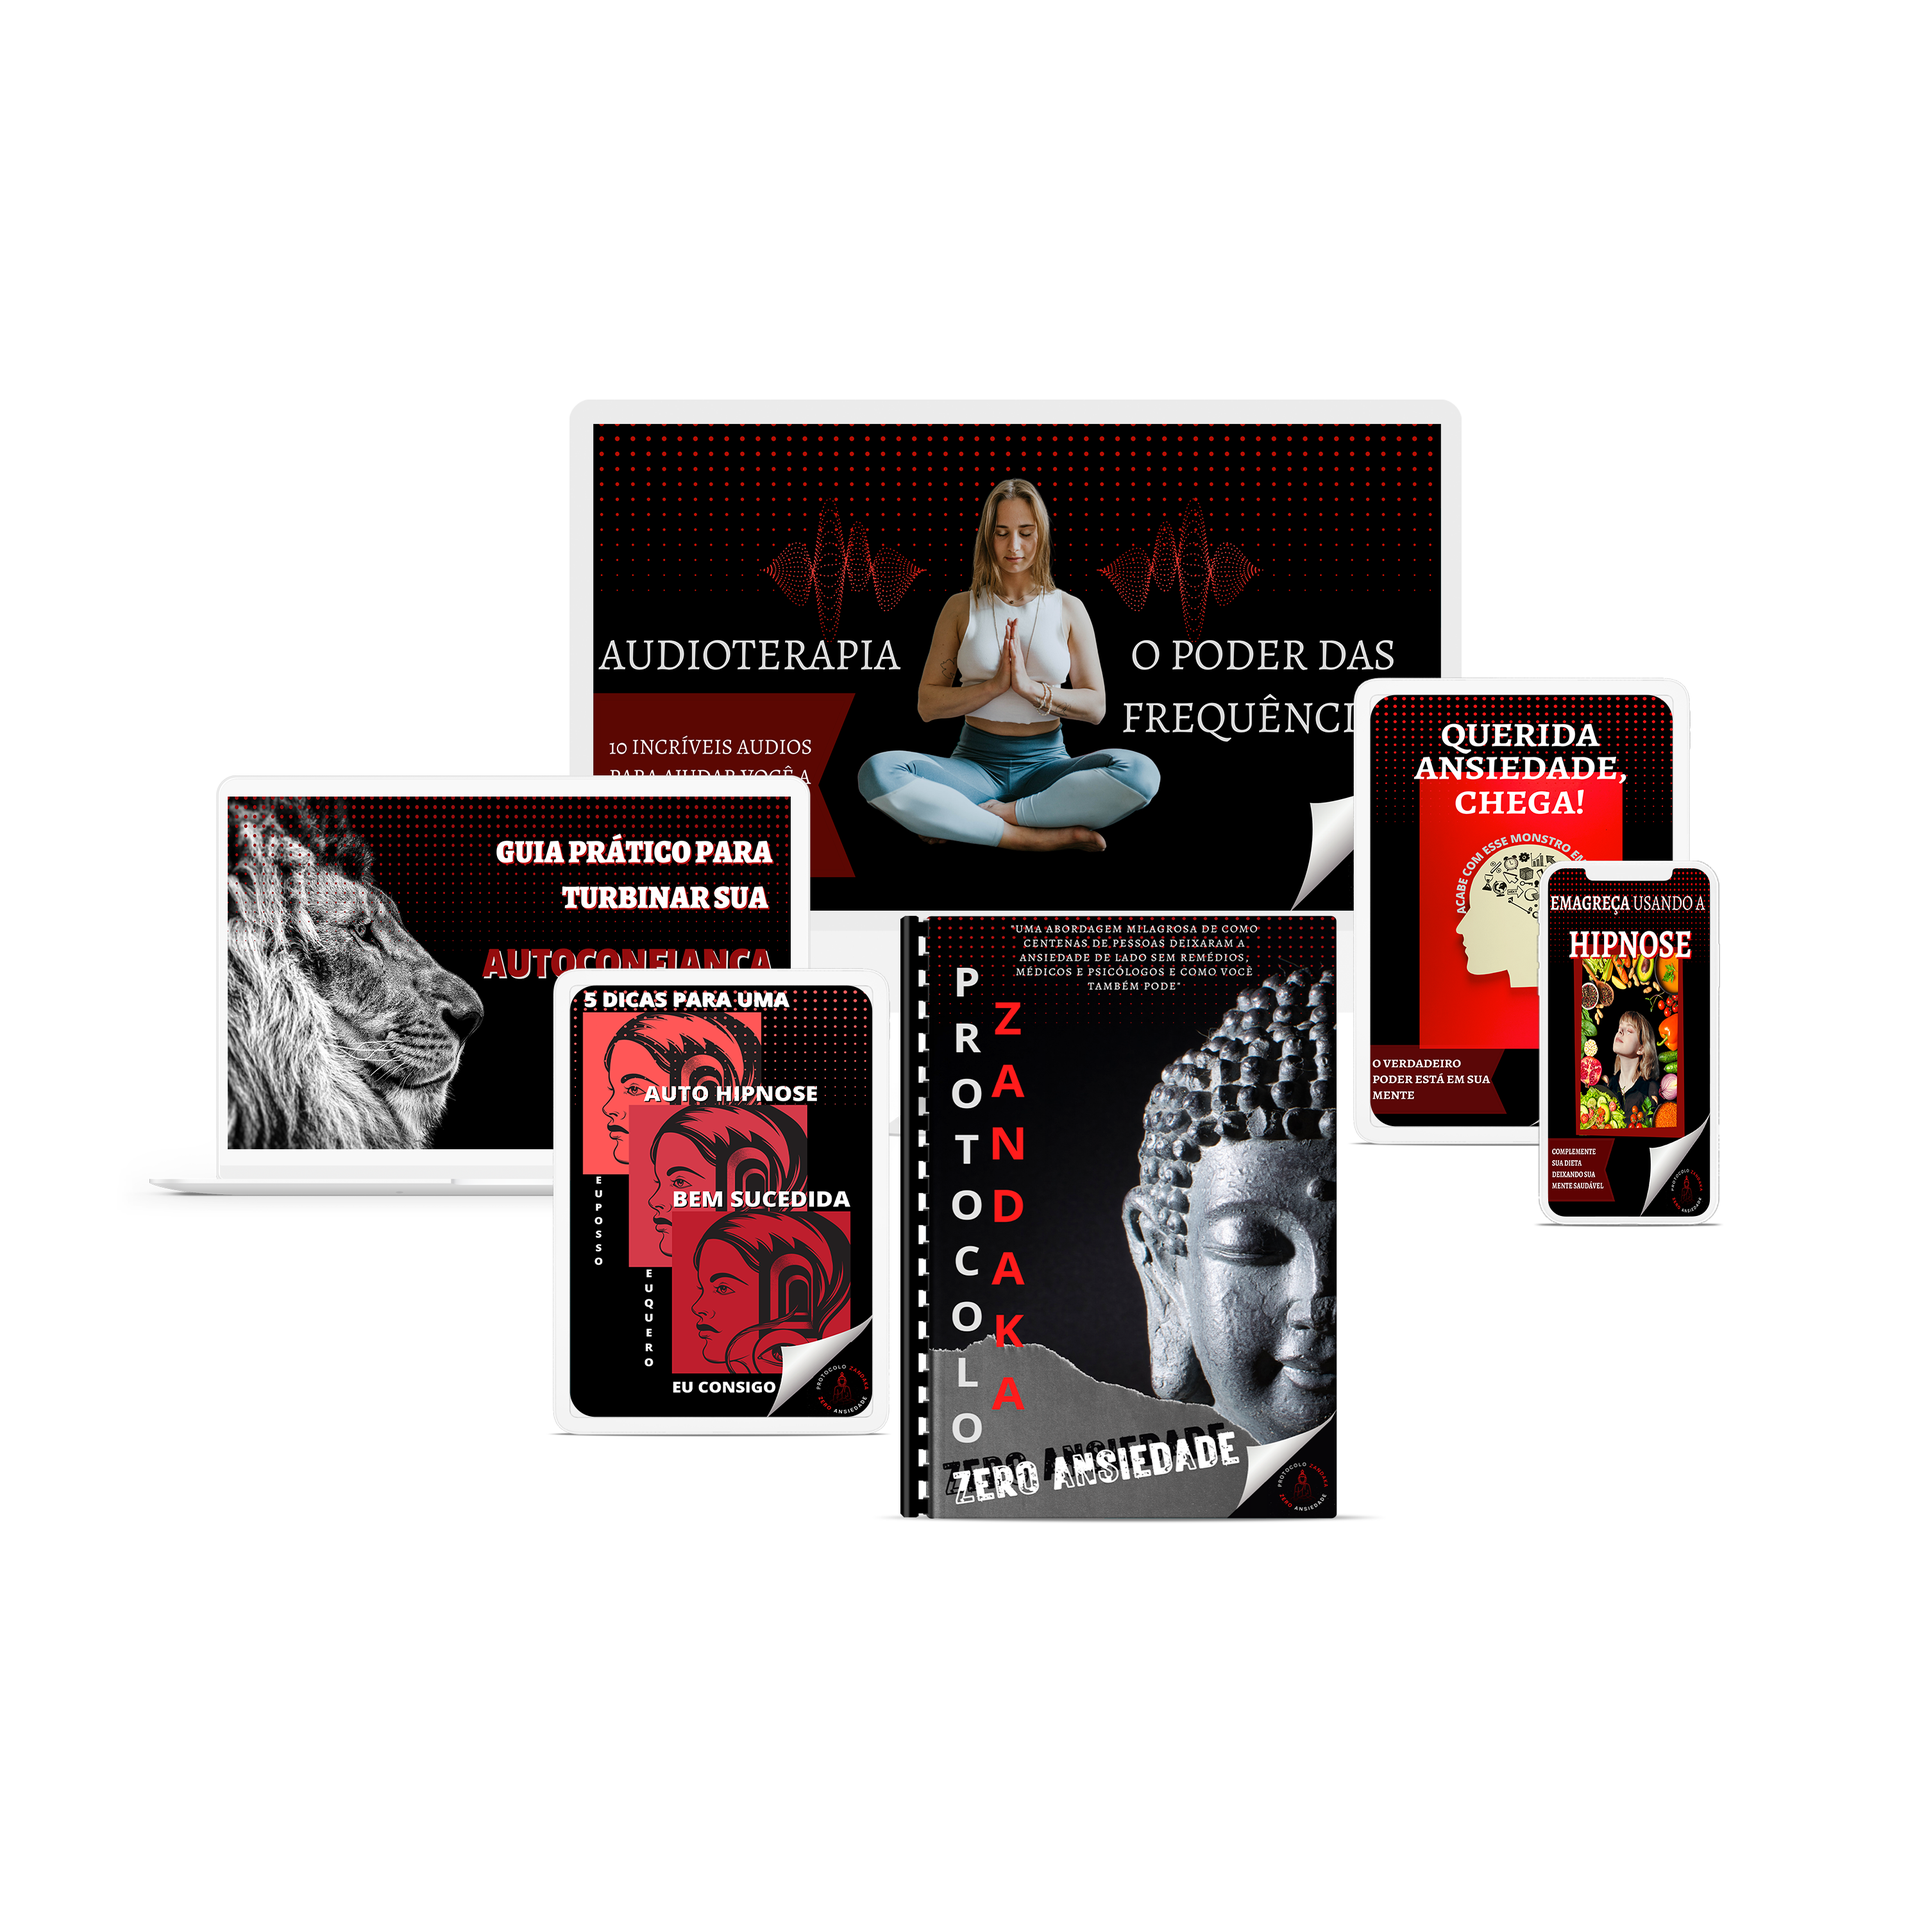
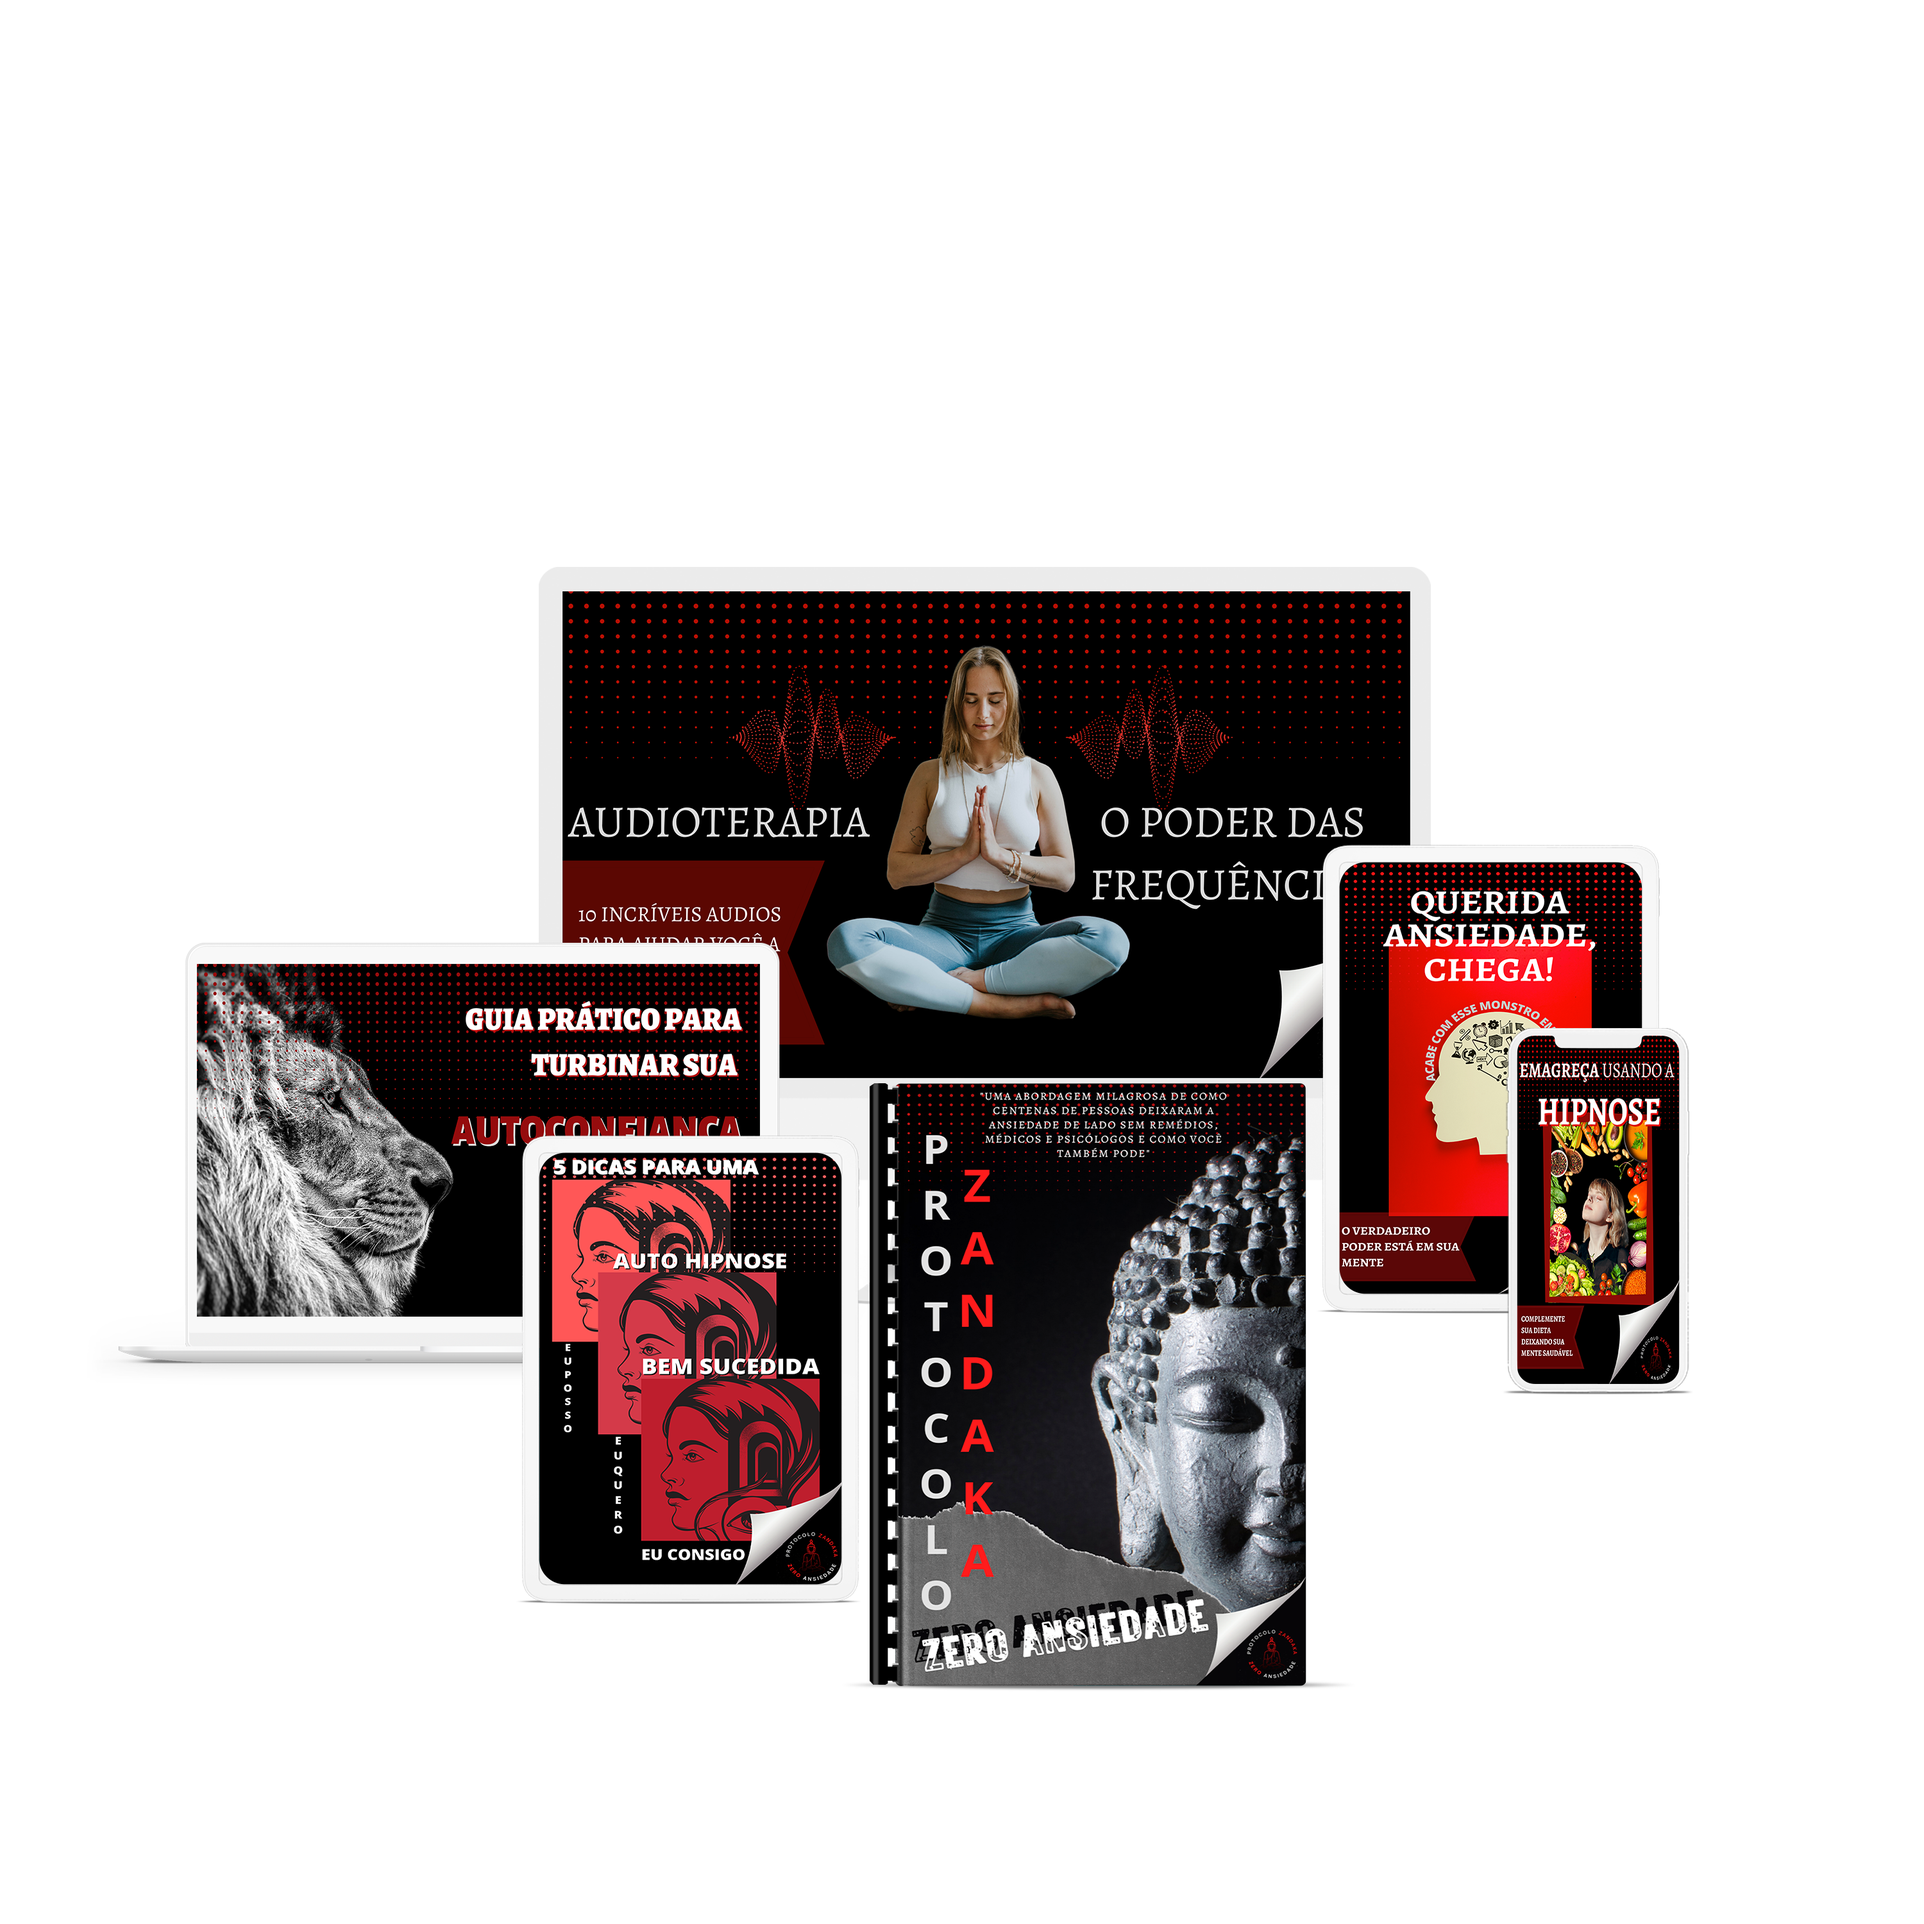
Add files via upload

Changed region(s): [[0.062, 0.217, 0.899, 0.899]]

diff --git a/ps/style.css b/ps/style.css
@@ -59,13 +59,6 @@ body {
 	color: white;
 }
 
-body {
-	font-family: sans-serif;
-	background-image: url(imagens/bg2.png);
-	width: 100px
-}
-
-body {
-	font-family: sans-serif;
-	background-image: url(imagens/bg3.png);
+#Bundle img{
+	vertical-align: top;
 }
